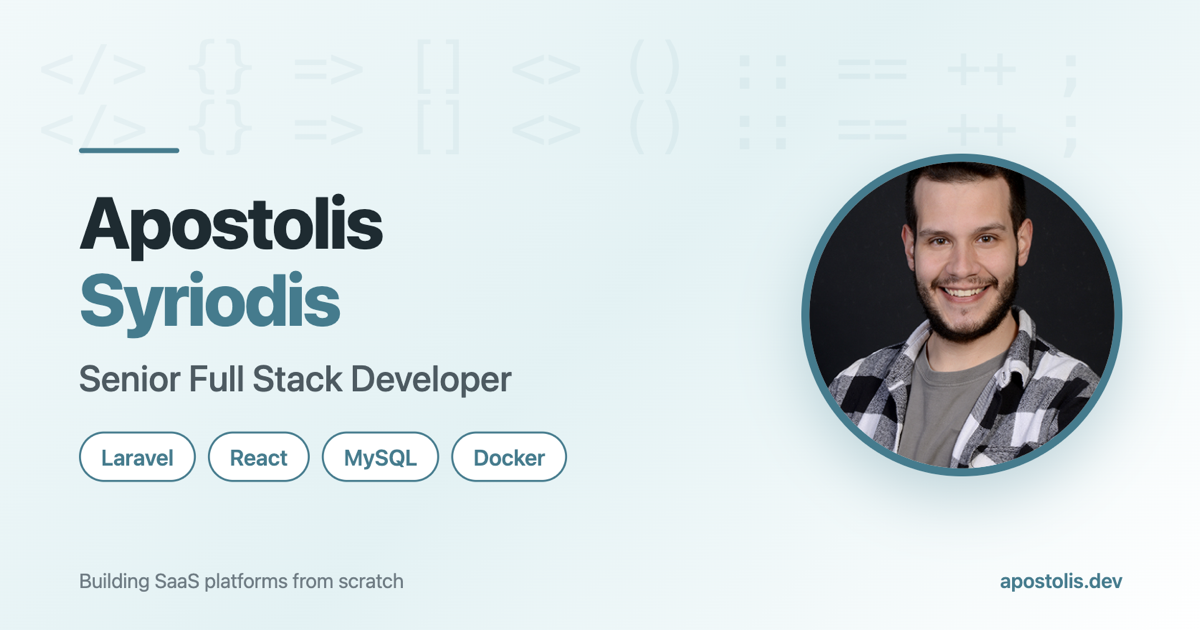
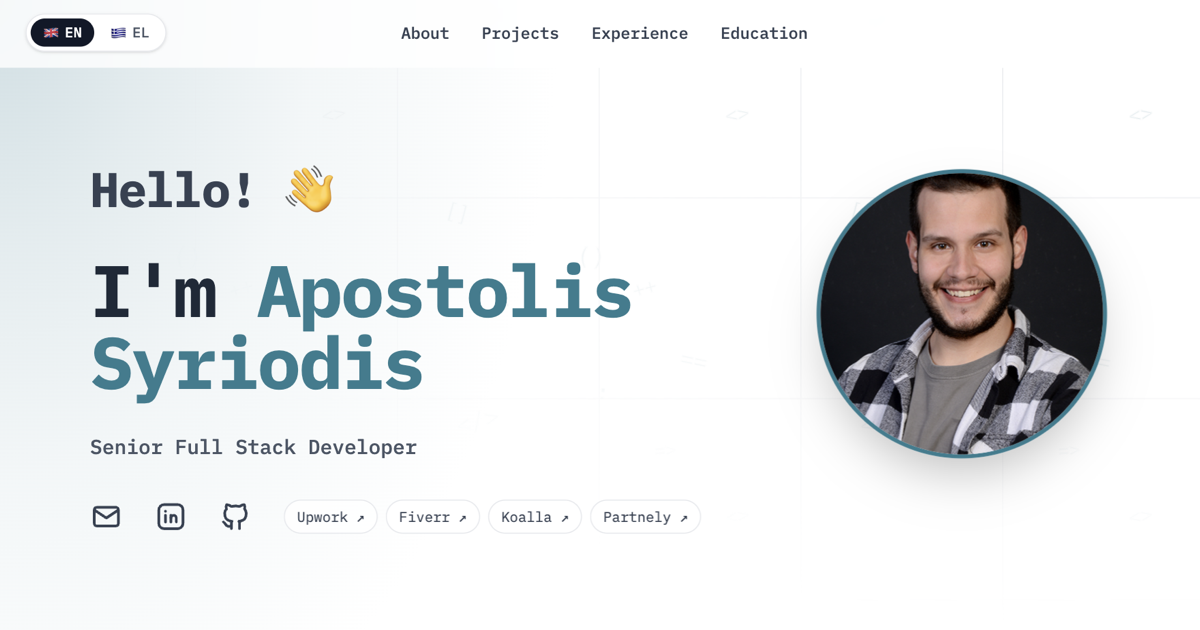
Update texts + OG image to Senior Full Stack Engineer

diff --git a/src/config.el.ts b/src/config.el.ts
@@ -1,8 +1,8 @@
 export const siteConfig = {
   name: "Αποστόλης Συριώδης",
-  title: "Senior Full Stack Developer",
+  title: "Senior Full Stack Engineer",
   description:
-    "Senior Full Stack Developer με 5+ χρόνια εμπειρίας. Χτίζω SaaS πλατφόρμες με Laravel, React, MySQL & Docker.",
+    "Senior Full Stack Engineer με 5+ χρόνια εμπειρίας. Χτίζω SaaS πλατφόρμες με Laravel, React, MySQL & Docker.",
   accentColor: "#2E7D8F",
   social: {
     email: "apsyriodis@gmail.com",
@@ -14,7 +14,7 @@ export const siteConfig = {
     partnely: "https://partnely.com/partners/apostolis-syriodis-developer",
   },
   aboutMe:
-    "Είμαι Senior Full Stack Developer με έδρα την Αθήνα και 5+ χρόνια εμπειρίας στην κατασκευή production-grade web εφαρμογών. Ξεκίνησα ως backend developer και σταδιακά επεκτάθηκα σε full stack — σήμερα σχεδιάζω και παραδίδω ολόκληρες SaaS πλατφόρμες, από αρχιτεκτονική βάσης δεδομένων και REST APIs μέχρι React frontends και Docker deployments. Έχω δουλέψει σε high-traffic retail συστήματα, multi-tenant B2B πλατφόρμες, και έχω χτίσει το Eukairon — μια multi-tenant SaaS πλατφόρμα κρατήσεων — από το μηδέν με Laravel, React, MySQL, Docker και Stripe. Με νοιάζει ο καθαρός κώδικας, τα σωστά tests, και το να παραδίδω features που λύνουν πραγματικά επιχειρηματικά προβλήματα.",
+    "Είμαι Senior Full Stack Engineer με έδρα την Αθήνα και 5+ χρόνια εμπειρίας στην κατασκευή production-grade web εφαρμογών. Ξεκίνησα ως backend developer και σταδιακά επεκτάθηκα σε full stack — σήμερα σχεδιάζω και παραδίδω ολόκληρες SaaS πλατφόρμες, από αρχιτεκτονική βάσης δεδομένων και REST APIs μέχρι React frontends και Docker deployments. Έχω δουλέψει σε high-traffic retail συστήματα, multi-tenant B2B πλατφόρμες, και έχω χτίσει το Eukairon — μια multi-tenant SaaS πλατφόρμα κρατήσεων — από το μηδέν με Laravel, React, MySQL, Docker και Stripe. Με νοιάζει ο καθαρός κώδικας, τα σωστά tests, και το να παραδίδω features που λύνουν πραγματικά επιχειρηματικά προβλήματα.",
   skills: [
     "Laravel",
     "PHP",
@@ -41,7 +41,7 @@ export const siteConfig = {
   experience: [
     {
       company: "Tekmon",
-      title: "Senior Backend Developer",
+      title: "Senior Backend Engineer",
       dateRange: "2025 – Σήμερα",
       bullets: [
         "Ανάπτυξη και συντήρηση multi-tenant B2B SaaS πλατφόρμας που χρησιμοποιείται από enterprise πελάτες.",

diff --git a/src/config.ts b/src/config.ts
@@ -1,8 +1,8 @@
 export const siteConfig = {
   name: "Apostolis Syriodis",
-  title: "Senior Full Stack Developer",
+  title: "Senior Full Stack Engineer",
   description:
-    "Senior Full Stack Developer building SaaS platforms with Laravel, React, MySQL & Docker.",
+    "Senior Full Stack Engineer building SaaS platforms with Laravel, React, MySQL & Docker.",
   accentColor: "#2E7D8F",
   social: {
     email: "apsyriodis@gmail.com",
@@ -14,7 +14,7 @@ export const siteConfig = {
     partnely: "https://partnely.com/partners/apostolis-syriodis-developer",
   },
   aboutMe:
-    "I'm a Senior Full Stack Developer based in Athens, Greece, with 5+ years of experience building production-grade web applications. I started as a backend developer and gradually expanded into full stack — today I design and ship entire SaaS platforms, from database architecture and REST APIs to React frontends and Docker deployments. I've worked on high-traffic retail systems, multi-tenant B2B platforms, and I've built Eukairon — a multi-tenant SaaS booking platform — from scratch using Laravel, React, MySQL, Docker, and Stripe. I care about clean code, solid tests, and shipping features that actually solve business problems.",
+    "I'm a Senior Full Stack Engineer based in Athens, Greece, with 5+ years of experience building production-grade web applications. I started as a backend developer and gradually expanded into full stack — today I design and ship entire SaaS platforms, from database architecture and REST APIs to React frontends and Docker deployments. I've worked on high-traffic retail systems, multi-tenant B2B platforms, and I've built Eukairon — a multi-tenant SaaS booking platform — using Laravel, React, MySQL, Docker, and Stripe. I care about clean code, solid tests, and shipping features that actually solve business problems.",
   skills: [
     "Laravel",
     "PHP",
@@ -33,7 +33,7 @@ export const siteConfig = {
     {
       name: "Eukairon",
       description:
-        "A multi-tenant SaaS platform for online bookings, built from scratch. Handles tenant isolation, recurring reservations, Stripe payments, and full test coverage with PHPUnit and Playwright.",
+        "A multi-tenant SaaS platform for online bookings. Handles tenant isolation, recurring reservations, Stripe payments, and full test coverage with PHPUnit and Playwright.",
       link: "/projects/eukairon",
       skills: ["Laravel", "React.js", "MySQL", "Docker", "Stripe"],
     },

diff --git a/og-temp/og-image.html b/og-temp/og-image.html
@@ -121,7 +121,7 @@
       <div class="name">
         Apostolis<br><span class="accent">Syriodis</span>
       </div>
-      <div class="title">Senior Full Stack Developer</div>
+      <div class="title">Senior Full Stack Engineer</div>
       <div class="tags">
         <span class="tag">Laravel</span>
         <span class="tag">React</span>

diff --git a/README.md b/README.md
@@ -1,6 +1,6 @@
 # apostolis.dev
 
-Personal portfolio & professional presence of **Apostolis Syriodis** — Senior Full Stack Developer.
+Personal portfolio & professional presence of **Apostolis Syriodis** — Senior Full Stack Engineer.
 
 🌐 **Live:** [https://www.apostolis.dev](https://www.apostolis.dev)
 
